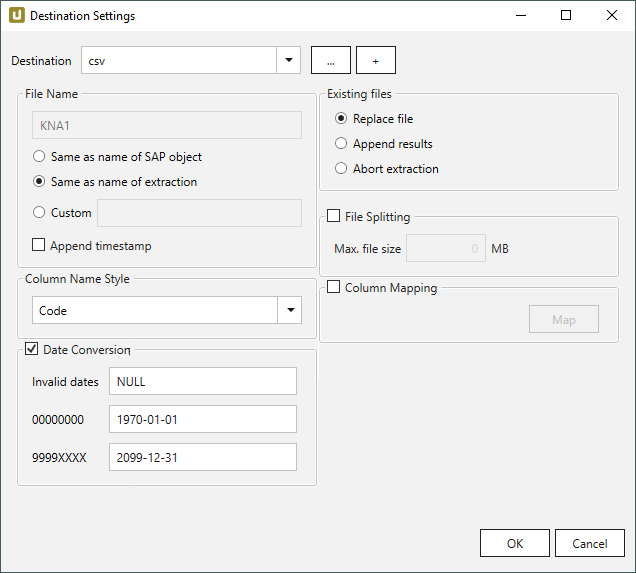
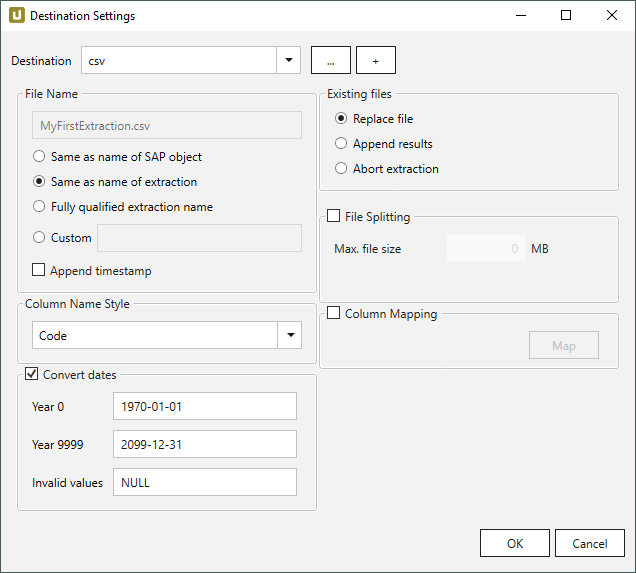
parquet flat file destination

diff --git a/projects/xtract-universal/docs/documentation/destinations/parquet.md b/projects/xtract-universal/docs/documentation/destinations/parquet.md
@@ -1,8 +1,31 @@
 ---
-title: Parquet Flat-File
+title: Flat File Parquet
 description: Parquet Flat-File destination
+folder: parquet
 ---
 
 This page shows how to set up and use the {{ page.meta.title }} destination. 
+The {{ page.meta.title }} destination loads data to a Parquet Database destination. 
+
+{% include "destinations/create-destination.md" %}
+
+![Destination-Details](../../assets/images/xu/documentation/destinations/flat-file-parquet/destination-details.png){:class="img-responsive"}
+
+{% include "destinations/file-output-path.md" %}
+
+{% include "destinations/compatibility-mode.md" %}
+
+{% include "destinations/assign-destination.md" %}
+
+![Destination-settings](../../assets/images/xu/documentation/destinations/flat-file-parquet/destination-settings.png){:class="img-responsive"}
+
+{% include "destinations/file-name.md" %}
+
+{% include "parameters/file-name-script-expressions.md " %}
+
+{% include "destinations/column-name-style.md" %}
+
+{% include "destinations/date-conversion.md " %}
  
-Coming soon...
+{% include "destinations/existing-files.md" %}
+

diff --git a/includes/destinations/existing-files.md b/includes/destinations/existing-files.md
@@ -3,8 +3,19 @@
 
 If a flat file by the same name already exists in the target directory, the following actions can be taken:
 
+{% if page.meta.folder == "csv" %}
+
 | Option | Description |
 |--------|--------------|
 | **Replace file** | The export process overwrites existing files. |
-| **Append results** | The export process appends new data to an already existing file. See also [Column Mapping](#column-mapping).|
+| **Append results** | The export process appends new data to an already existing file, see [Column Mapping](#column-mapping).|
 | **Abort extraction** | The process is aborted, if the file already exists. |
+
+{% else %}
+
+| Option | Description |
+|--------|--------------|
+| **Replace file** | The export process overwrites existing files. |
+| **Abort extraction** | The process is aborted, if the file already exists. |
+
+{% endif %}

diff --git a/includes/destinations/date-conversion.md b/includes/destinations/date-conversion.md
@@ -4,13 +4,13 @@
 Converts the character-type SAP date (YYYYMMDD, e.g., 19900101) to a special date format (YYYY-MM-DD, e.g., 1990-01-01). 
 Target data uses a real date data-type and not the string data-type to store dates.
 
-#### Invalid dates
+#### Year 0
+Converts the SAP date 00000000 to the entered value.
+
+#### Year 9999
+Converts the SAP date 9999XXXX to the entered value.
+
+#### Invalid values
 If an SAP date cannot be converted to a valid date format, the invalid date is converted to the entered value. 
 NULL is supported as a value.
 When converting the SAP date the two special cases 00000000 and 9999XXXX are checked first.
-
-#### 00000000
-Converts the SAP date 00000000 to the entered value.
-
-#### 9999XXXX
-Converts the SAP date 9999XXXX to the entered value.

diff --git a/includes/destinations/file-name.md b/includes/destinations/file-name.md
@@ -7,7 +7,9 @@ Determines the name of the target table. The following options are available:
 |---------|-----------|
 | **Same as name of SAP object** | Copy the name of the SAP object |
 | **Same as name of extraction** | Adopt name of extraction |
+| **Fully qualified extraction name** | Adopt name of extraction, including the full path of the extraction. This option avoids conflicts, when the extraction names are not unique. Use the fully qualified extraction name when the same extraction name is used in multiple [extraction groups](../organize-extractions.md).|
 | **Custom** | Define a name of your choice  |
+
 
 #### Append timestamp
 Add the timestamp in the UTC format (_YYYY_MM_DD_hh_mm_ss_fff) to the file name of the extraction

diff --git a/projects/xtract-universal/docs/documentation/destinations/csv-flat-file.md b/projects/xtract-universal/docs/documentation/destinations/csv-flat-file.md
@@ -1,6 +1,7 @@
 ---
 title: Flat File CSV 
 description: Flat-File - CSV destination
+folder: csv
 ---
 
 This page shows how to set up and use the {{ page.meta.title }} destination. 
@@ -9,6 +10,8 @@ The {{ page.meta.title }} destination is a CSV (comma-separated values) flat fil
 {% include "destinations/create-destination.md" %}
 
 ![Destination-Details](../../assets/images/xu/documentation/destinations/flat-file-csv/destination-details.png){:class="img-responsive"}
+
+### File output path
 
 {% include "destinations/file-output-path.md" %}
 

diff --git a/includes/destinations/compatibility-mode.md b/includes/destinations/compatibility-mode.md
@@ -1,0 +1,12 @@
+
+### Compatibility mode
+
+The following compatibility modes are available:
+- *Pure* 
+- *Spark* (does not support the data types used in pure mode, so other data types need to be used)
+- *BigQuery* (formats columns names to be compatible with Google BigQuery, see [BigQuery Documentation: Column Names](https://cloud.google.com/bigquery/docs/schemas?hl=en#column_names))
+
+| SAP | Pure / BigQuery | Spark |
+|------|-------------|-------|
+| INT1 | UINT_8 | INT16 |
+| TIMS | TIME_MILLIS | UTF8 |

diff --git a/projects/xtract-universal/docs/documentation/destinations/json-flat-file.md b/projects/xtract-universal/docs/documentation/destinations/json-flat-file.md
@@ -10,6 +10,7 @@ The {{ page.meta.title }} destination is a JSON flat file that can be written to
 
 ![Destination-Details](../../assets/images/xu/documentation/destinations/flat-file-json/destination-details.png){:class="img-responsive"}
 
+
 {% include "destinations/file-output-path.md" %}
 
 {% include "destinations/assign-destination.md" %}

diff --git a/includes/destinations/file-output-path.md b/includes/destinations/file-output-path.md
@@ -1,5 +1,9 @@
 
+{% if page.meta.folder == "parquet" %} 
+### Output directory 
+{% else %}
 ### File output path
+{% endif %}
 
 Enter the folder path to save the destination flat files in. 
 If the entered folder does not exist, a new folder is created.
